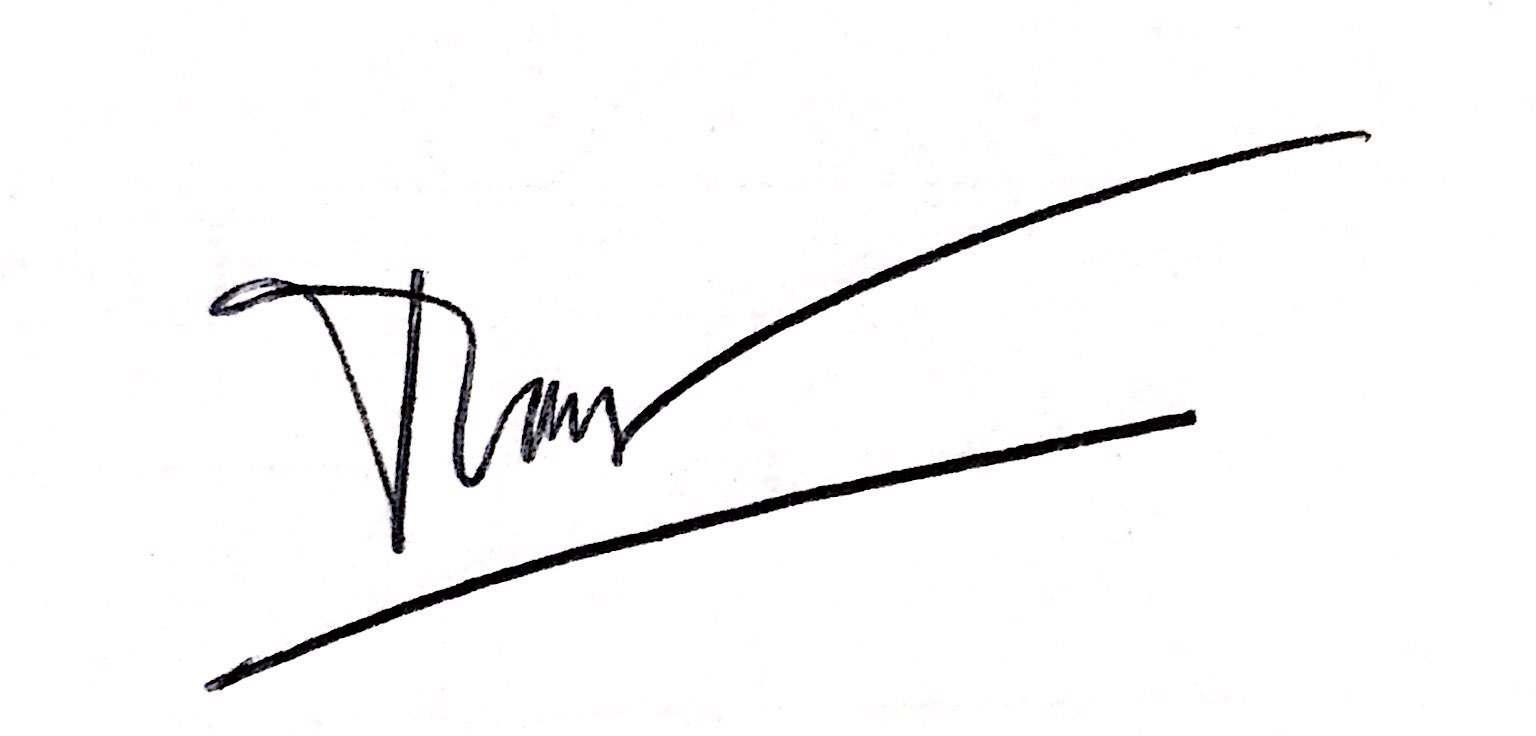
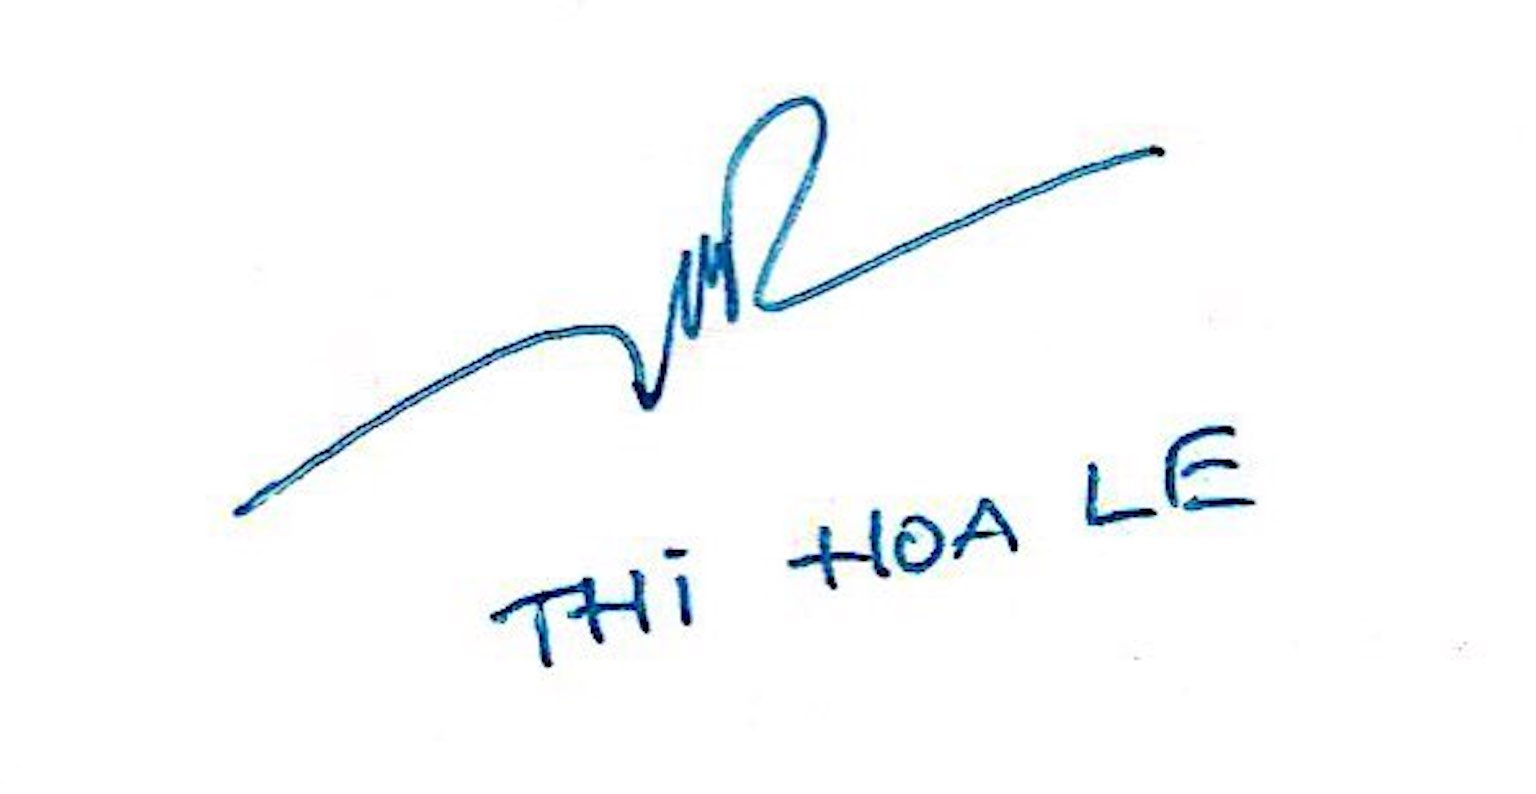
Update signature

Changed region(s): [[0.125, 0.0938, 0.9062, 0.75], [0.2812, 0.5312, 0.8125, 0.8438], [0.125, 0.8125, 0.2812, 0.9375]]

diff --git a/app/pdfs/receipt_pdf.rb b/app/pdfs/receipt_pdf.rb
@@ -60,7 +60,7 @@ class ReceiptPdf < Prawn::Document
         like to sincerely thank you for your generous donation."]] + 
         [["Nguyện xin Chúa ban phước dư dật trên quý vị và gia
         quyến!", "May God bless you and your family!"]] + [["Thay Mặt Hội Thánh ", ""]] +
-        [["Tâm Nguyễn", "Tam Nguyen"]] +
+        [["Hoa Lê", "Hoa Le"]] +
         [["Thủ Quỹ", "Church Treasurer"]] + [["",""]]
      
     end
@@ -87,7 +87,7 @@ class ReceiptPdf < Prawn::Document
     def signature
         text_box "Authorized Signature: ", size: 9, :at => [250, 350]
         image "public/images/signature.jpg", :at => [370, 380], :scale => 0.07
-        text_box "Tam Nguyen, Treasurer ", size: 9, :at => [370, 315]
+        text_box "Hoa Le, Treasurer ", size: 9, :at => [370, 315]
     end
    
     def footer
